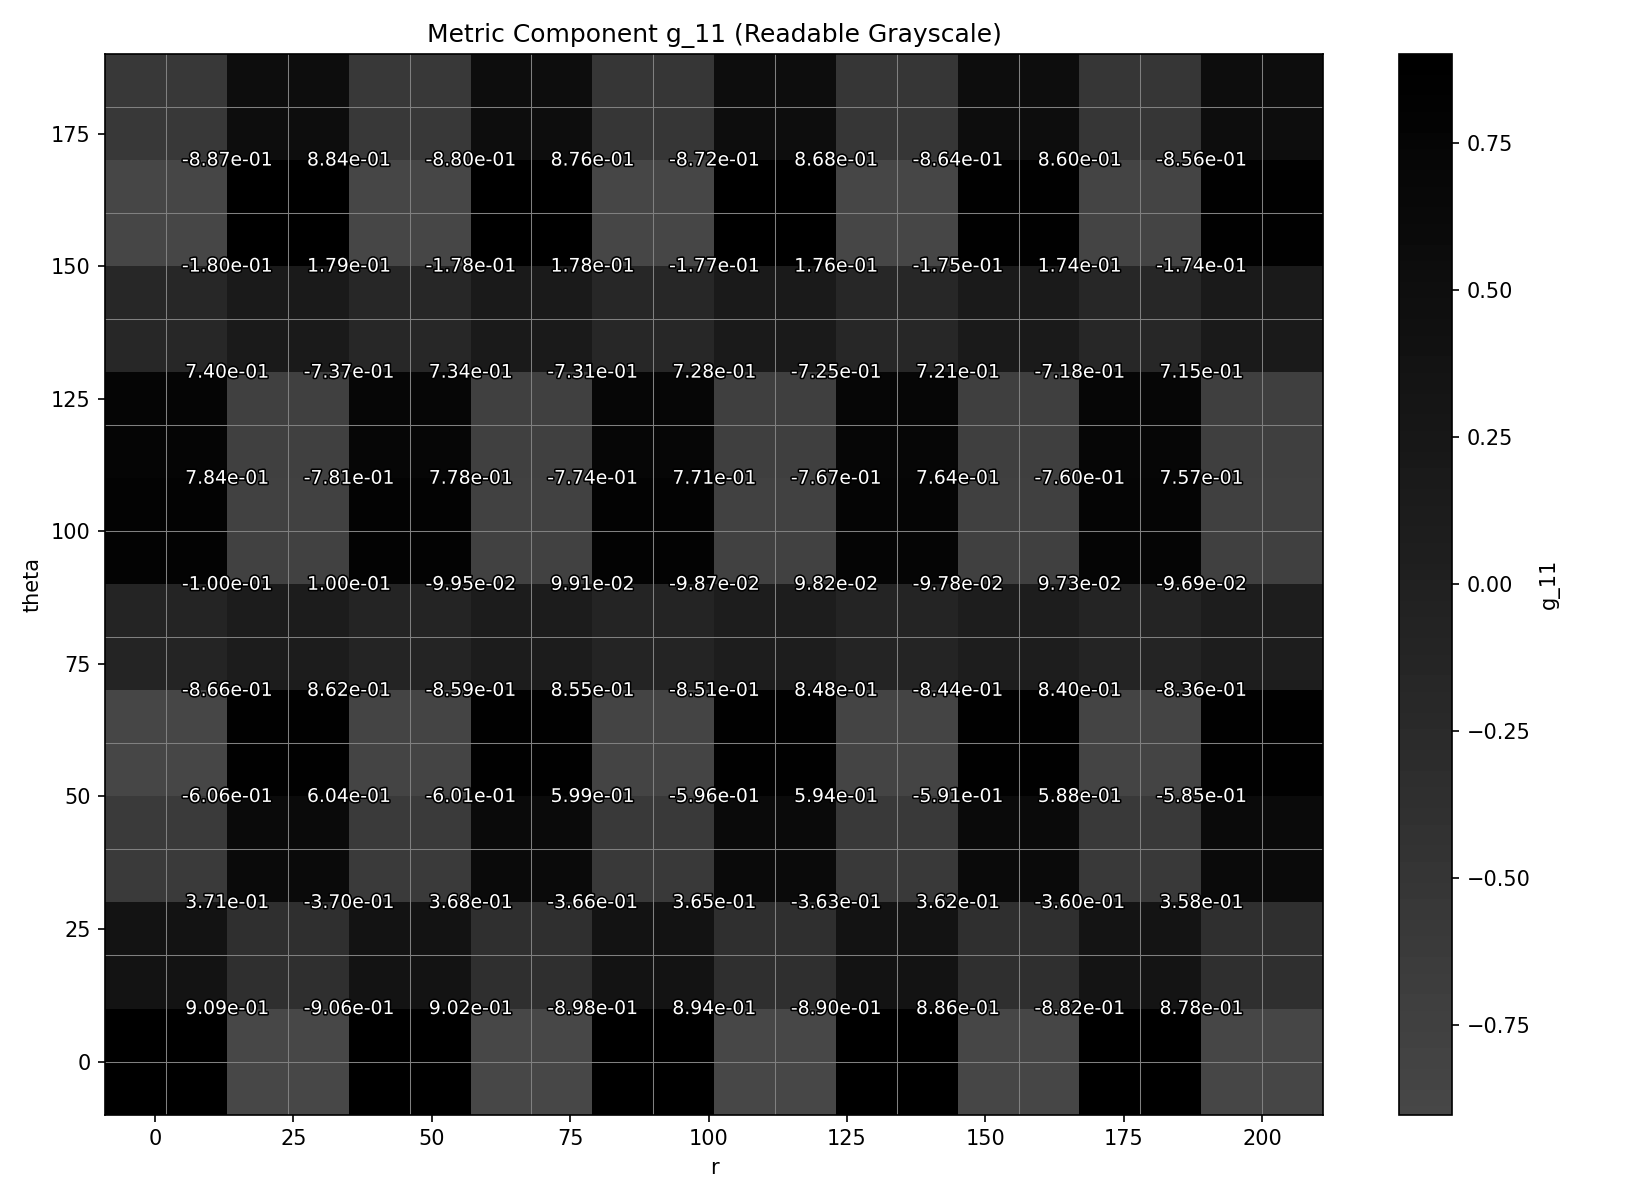
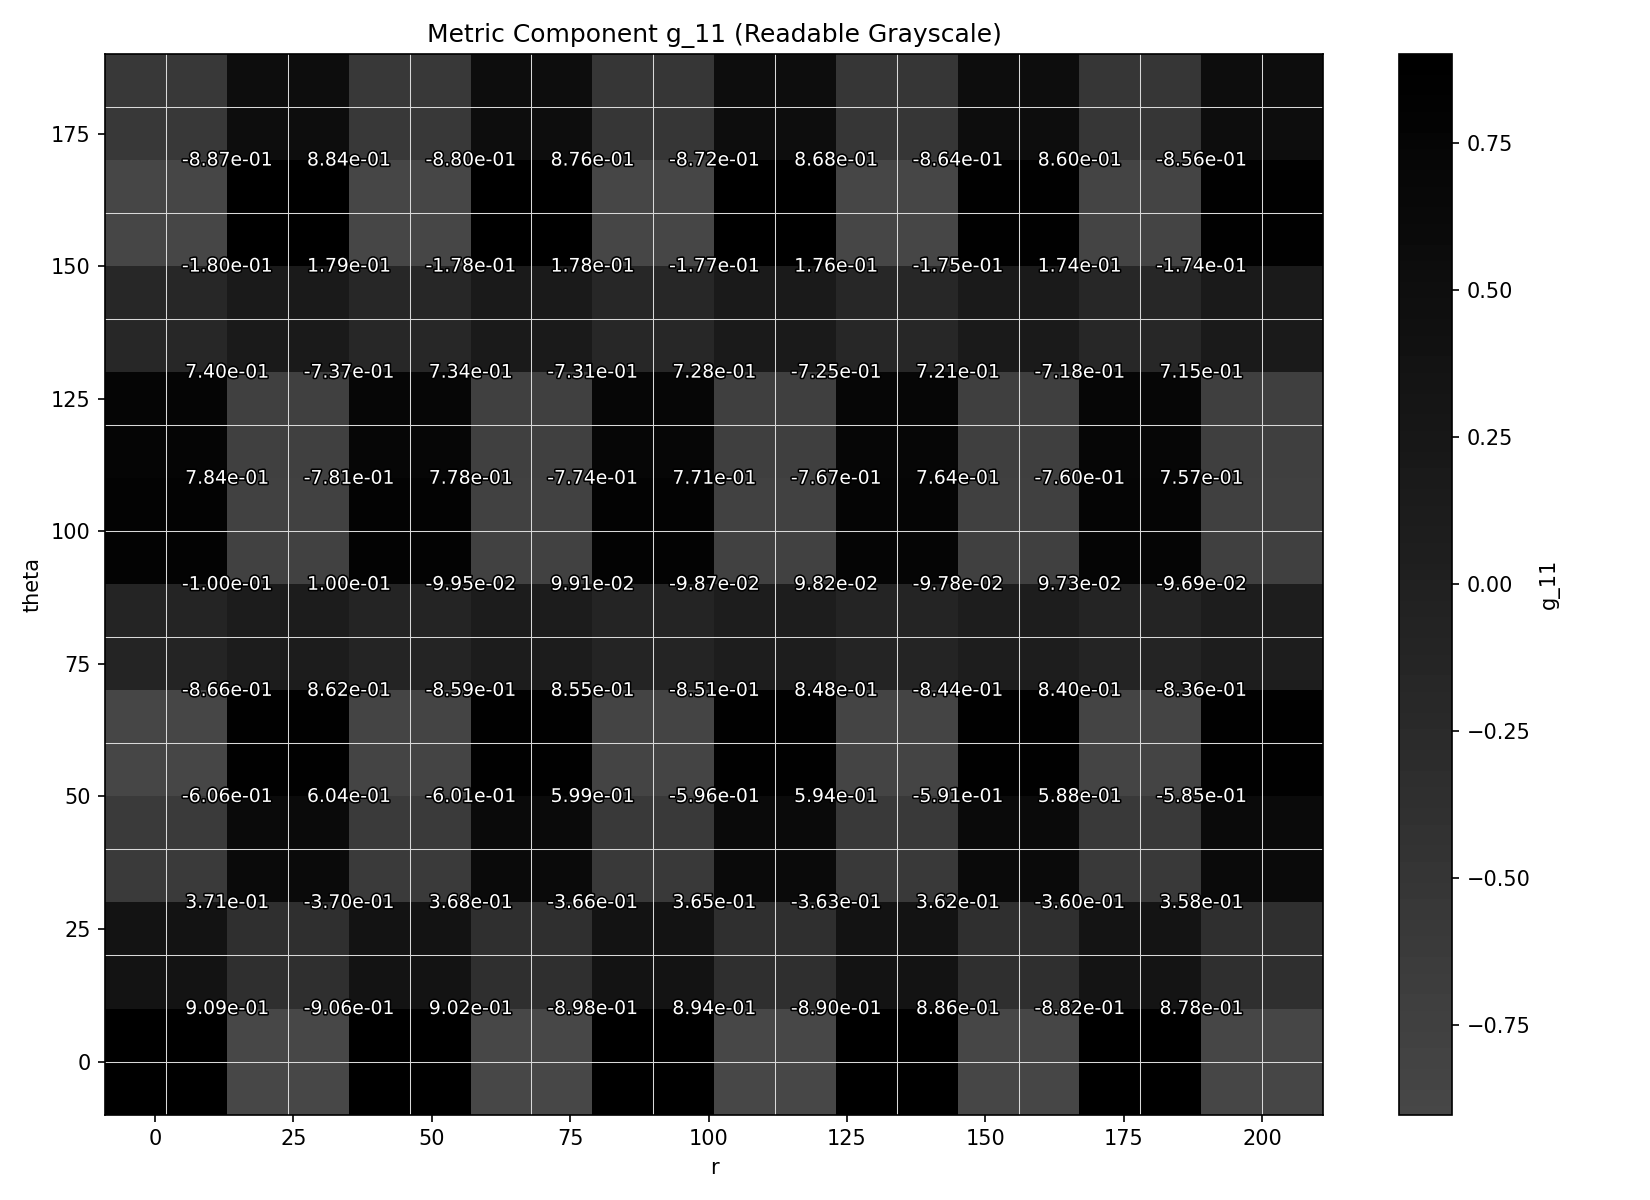
Update metric tensor plot to show values only
Changed the metric tensor plot to display a plain grid with numeric values, removing the grayscale background and colorbar. This improves readability and focuses on the actual metric component values.

diff --git a/spacetimeengine/src/spacetime.py b/spacetimeengine/src/spacetime.py
@@ -626,7 +626,7 @@ class SpaceTime:
                                                             [ 0, 0, 0, 0 ], 
                                                             [ 0, 0, 0, 0 ], 
                                                             [ 0, 0, 0, 0 ], 
-                                                            [ 0, 0, 0, 0 ]
+                                                            [  0, 0, 0, 0 ]
                                                         ]
                                                    ],
                                                    [    
@@ -3092,8 +3092,8 @@ class SpaceTime:
                                 x_index=0, y_index=1, num_points=20,
                                 save_path=None, dpi=150, index_config="dd"):
         """
-        Plot selected metric component in grayscale and save as metric_tensor_plot.png
-        (unless a custom save_path is provided).
+        Plot selected metric component as a plain grid with numeric values only
+        (no grayscale background) and save as metric_tensor_plot.png unless overridden.
         """
         if save_path is None:
             save_path = os.path.join(os.getcwd(), "metric_tensor_plot.png")
@@ -3122,62 +3122,48 @@ class SpaceTime:
                 except Exception:
                     comp_grid[j, i] = np.nan
 
-        # Robust symmetric limits (avoid All-NaN warnings and low contrast)
-        finite_vals = comp_grid[np.isfinite(comp_grid)]
-        if finite_vals.size == 0:
-            vmax = 1.0
-        else:
-            vmax = float(np.nanpercentile(np.abs(finite_vals), 98))
-            if vmax == 0.0 or not np.isfinite(vmax):
-                vmax = 1.0
-        vmin = -vmax
-
         fig, ax = plt.subplots(figsize=(11, 8), dpi=dpi)
-
-        # Light grayscale, centered at 0 for better contrast
-        import matplotlib as mpl
-        from matplotlib import colors, patheffects as pe
-
-        def _truncate_cmap(cmap, minval=0.78, maxval=1.0, n=256):
-            return mpl.colors.ListedColormap(cmap(np.linspace(minval, maxval, n)))
-
-        cmap = _truncate_cmap(mpl.cm.Greys, 0.78, 1.0)
-        norm = colors.TwoSlopeNorm(vmin=vmin, vcenter=0.0, vmax=vmax)
-
-        mesh = ax.pcolormesh(
-            x_vals, y_vals, comp_grid,
-            cmap=cmap, norm=norm, shading="auto"
-        )
         lab = f"g_{mu}{nu}" if index_config == "dd" else f"g^{mu}{nu}"
         ax.set_xlabel(str(x_sym))
         ax.set_ylabel(str(y_sym))
-        ax.set_title(f"Metric Component {lab} (Readable Grayscale)")
+        ax.set_title(f"Metric Component {lab} (Values Only)")
 
-        # Annotate with adaptive color and outline for readability
-        dx = (x_vals[1] - x_vals[0]) / 2.0 if len(x_vals) > 1 else 0.0
-        dy = (y_vals[1] - y_vals[0]) / 2.0 if len(y_vals) > 1 else 0.0
+        # Draw plain grid boxes (no fill)
+        from matplotlib.patches import Rectangle
+        if len(x_vals) > 1 and len(y_vals) > 1:
+            dx = x_vals[1] - x_vals[0]
+            dy = y_vals[1] - y_vals[0]
+        else:
+            dx = dy = 1.0
+
+        for i, xv in enumerate(x_vals[:-1]):
+            for j, yv in enumerate(y_vals[:-1]):
+                ax.add_patch(
+                    Rectangle((xv, yv), dx, dy, fill=False,
+                              edgecolor="black", linewidth=0.6)
+                )
+
+        # Annotate each cell center
+        cx = dx / 2.0
+        cy = dy / 2.0
         for i, xv in enumerate(x_vals[:-1]):
             for j, yv in enumerate(y_vals[:-1]):
                 val = comp_grid[j, i]
                 if np.isfinite(val):
-                    rgba = cmap(norm(val))
-                    lum = 0.2126 * rgba[0] + 0.7152 * rgba[1] + 0.0722 * rgba[2]
-                    txt_color = "black" if lum > 0.6 else "white"
-                    outline = "white" if txt_color == "black" else "black"
                     ax.text(
-                        xv + dx, yv + dy, f"{val:0.2e}",
-                        ha="center", va="center", fontsize=9, color=txt_color,
-                        path_effects=[pe.withStroke(linewidth=1.5, foreground=outline)]
+                        xv + cx, yv + cy, f"{val:0.2e}",
+                        ha="center", va="center", fontsize=9, color="black"
                     )
 
-        # Light gridlines
-        for xv in x_vals:
-            ax.axvline(xv, color="0.85", linewidth=0.5)
-        for yv in y_vals:
-            ax.axhline(yv, color="0.85", linewidth=0.5)
+        # Axis limits
+        ax.set_xlim(x_vals[0], x_vals[-1])
+        ax.set_ylim(y_vals[0], y_vals[-1])
+        ax.invert_yaxis()  # optional: match matrix orientation; remove if undesired
 
-        cbar = fig.colorbar(mesh, ax=ax)
-        cbar.set_label(lab)
+        # Ticks at grid lines
+        ax.set_xticks(x_vals)
+        ax.set_yticks(y_vals)
+        ax.tick_params(axis='both', which='both', length=0)
 
         fig.tight_layout()
         fig.savefig(save_path)
